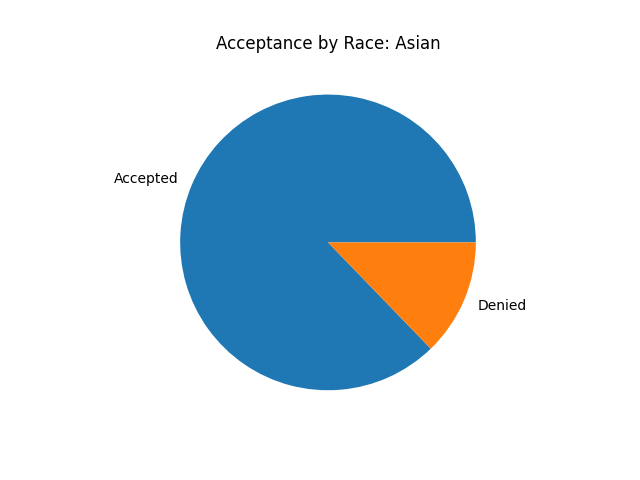
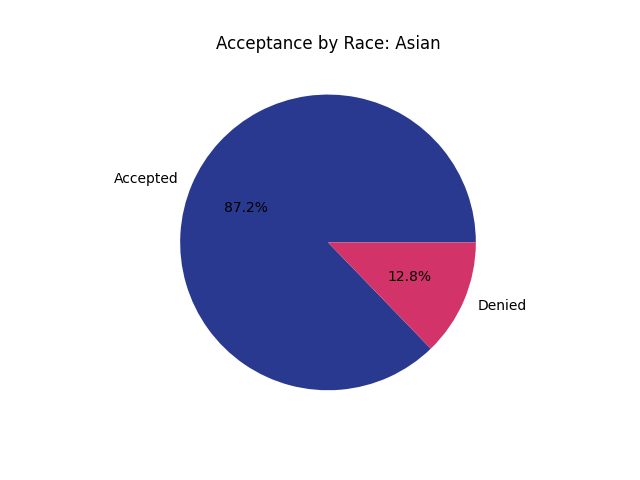
done :)

Changed region(s): [[0.2812, 0.1875, 0.75, 0.8125]]

diff --git a/test_logreg.py b/test_logreg.py
@@ -1,42 +1,64 @@
 from sklearn.linear_model import LogisticRegression
+from sklearn.preprocessing import MinMaxScaler
 import pandas as pd
 import matplotlib.pyplot as plt
+from sklearn.ensemble import RandomForestClassifier
 import numpy as np
 import seaborn as sns
 from sklearn.model_selection import train_test_split
 from sklearn import metrics
-from sklearn.metrics import accuracy_score, precision_score, recall_score
+from sklearn.metrics import accuracy_score, precision_score, recall_score, confusion_matrix
 from imblearn.over_sampling import SMOTE
 from sklearn.metrics import f1_score
+
 
 # import data
 df2 = pd.read_csv('track.csv')
 
 # data cleaning
 dfrel = df2.loc[:, ['applicant_age', 'race', 'ethnicity',
-                    'sex', 'income', 'loan_amount', 'accepted', 'debt_to_income_ratio']]
+                    'sex', 'income', 'loan_amount', 'accepted', 'debt_to_income_ratio', 'combined_loan_to_value_ratio']]
 dfrel.dropna(inplace=True)
 
+# one-hot encoding
 dummies = pd.get_dummies(dfrel['race'])
 dummies1 = pd.get_dummies(dfrel['sex'])
 dummies2 = pd.get_dummies(dfrel['applicant_age'])
 dummies3 = pd.get_dummies(dfrel['ethnicity'])
 dummies4 = pd.get_dummies(dfrel['debt_to_income_ratio'])
-
 dfrel = pd.concat([dfrel, dummies, dummies1, dummies2,
                    dummies3, dummies4], axis=1)
 dfrel.drop(labels=["race", "applicant_age", "sex",
-                   "ethnicity", "debt_to_income_ratio"], axis=1, inplace=True)
+                   "ethnicity", "debt_to_income_ratio", ], axis=1, inplace=True)
 
 
+# encode binary variable
 def encode_binary_variable(df, col, val_pos, val_neg):
     df[col] = df[col].replace({val_pos: 1, val_neg: 0})
 
 
 encode_binary_variable(dfrel, "accepted", 1.0, 0.0)
 
+mms = MinMaxScaler()
+dfrel = pd.DataFrame(mms.fit_transform(dfrel.values), columns=dfrel.columns)
+
+
+# training
 X = dfrel.drop(labels=["accepted"], axis=1)
 y = dfrel["accepted"]
+
+
+# original data, accepted/not accepted bar graph
+ax = df2['accepted'].value_counts().plot(
+    kind='bar', figsize=(10, 6), fontsize=13, color='#087E8B')
+ax.set_title('Mortgage Accepted (0 = not accepted, 1 = accepted)',
+             size=20, pad=30)
+ax.set_ylabel('Number of mortgages accepted ', fontsize=14)
+
+for i in ax.patches:
+    ax.text(i.get_x() + 0.19, i.get_height() + 700,
+            str(round(i.get_height(), 2)), fontsize=15)
+
 
 # create testing dataset
 X_train_full, X_test, y_train_full, y_test = train_test_split(
@@ -45,17 +67,19 @@ X_train_full, X_test, y_train_full, y_test = train_test_split(
 # create training and validation sets
 X_train, X_val, y_train, y_val = train_test_split(
     X_train_full, y_train_full, test_size=0.2, random_state=0)
-print(X_train.shape)
-print(y_train.shape)
+
+
+# logistic regresiion
 logreg = LogisticRegression(random_state=1, max_iter=1000)
 logreg.fit(X_train, y_train)
-
 y_pred = logreg.predict(X_val)
 
 
 dfrel['accepted'].value_counts()
 print(str(dfrel['accepted'].value_counts()[1]/(dfrel['accepted'].value_counts()[1] +
                                                dfrel['accepted'].value_counts()[0])*100)+"% of entries correspond to accepted loans")
+
+
 print("Accuracy: ", accuracy_score(y_val, y_pred))
 # precision and recall accuracy for accepted
 print("Precision for Accepted Applications: ", precision_score(y_val, y_pred))
@@ -66,21 +90,42 @@ print("Precision for Rejected Applications: ",
 print("Recall for Rejected Applications: ",
       recall_score(y_val, y_pred, pos_label=0))
 
-smote = SMOTE(sampling_strategy='minority')
-X_train_res, y_train_res = smote.fit_resample(X_train, y_train)
-y_train_res.value_counts()
-logreg_sm = LogisticRegression(random_state=0, max_iter=1000)
-logreg_sm.fit(X_train_res, y_train_res)
-y_pred_sm = logreg_sm.predict(X_val)
-print("Accuracy: ", accuracy_score(y_val, y_pred_sm))
+
+# utilize SMOTE to fix unbalanced data classes
+sm = SMOTE(random_state=42)
+X_sm, y_sm = sm.fit_resample(X_val, y_val)
+print(f'''Shape of X before SMOTE: {X_val.shape}
+Shape of X after SMOTE: {X_sm.shape}''')
+
+print('\nBalance of positive and negative classes (%):')
+y_sm.value_counts(normalize=True) * 100
+
+X_train, X_test, y_train, y_test = train_test_split(
+    X_sm, y_sm, test_size=0.25, random_state=42
+)
+
+model = RandomForestClassifier(random_state=42)
+model.fit(X_train, y_train)
+preds = model.predict(X_test)
+
+print(
+    f'Accuracy = {accuracy_score(y_test, preds):.2f}\nRecall = {recall_score(y_test, preds):.2f}\n')
+cm = confusion_matrix(y_test, preds)
+plt.figure(figsize=(8, 6))
+plt.title('Confusion Matrix (with SMOTE)', size=16)
+sns.heatmap(cm, annot=True, cmap='Blues')
+plt.savefig('heatmap.png')
+
+
+print("Accuracy SMOTE: ", accuracy_score(y_val, y_pred_sm))
 # precision and recall accuracy for accepted
-print("Precision for Accepted Applications: ",
+print("Precision for Accepted Applications SMOTE: ",
       precision_score(y_val, y_pred_sm))
-print("Recall for Accepted Applications: ", recall_score(y_val, y_pred_sm))
+print("Recall for Accepted Applications SMOTE: ", recall_score(y_val, y_pred_sm))
 # precision and recall accuracy for rejected
-print("Precision for Rejected Applications: ",
+print("Precision for Rejected Applications SMOTE: ",
       precision_score(y_val, y_pred_sm, pos_label=0))
-print("Recall for Rejected Applications: ",
+print("Recall for Rejected Applications SMOTE: ",
       recall_score(y_val, y_pred_sm, pos_label=0))
 
 
@@ -93,4 +138,84 @@ plt.plot(fpr, tpr, label="AUC" + str(auc))
 plt.ylabel('True Positive Rate')
 plt.xlabel('False Positive Rate')
 plt.legend(loc=4)
+plt.show()
+
+
+print("F1 Score for the Baseline Model (Accepted): ", f1_score(y_val, y_pred))
+print("F1 Score for the SMOTE Model (Accepted): ", f1_score(y_val, y_pred_sm))
+print("F1 Score for the Baseline Model (Rejected): ",
+      f1_score(y_val, y_pred, pos_label=0))
+print("F1 Score for the SMOTE Model (Rejected): ",
+      f1_score(y_val, y_pred_sm, pos_label=0))
+
+
+dftest = dfrel.copy()
+
+dftest.loc[:, 'Native Hawaiian or Other Pacific Islander'] = 0.0
+dftest.loc[:, 'White'] = 1.0
+dftest.loc[:, 'Asian'] = 0.0
+dftest.loc[:, 'Black or African American'] = 0.0
+dftest.loc[:, 'American Indian or Alaska Native'] = 0.0
+dftest.loc[:, '2 or more minority races'] = 0.0
+dftest.loc[:, 'Free Form Text Only'] = 0.0
+
+
+# compare predicted approval rates if race is changed to white
+X = dfrel.drop(labels=["accepted"], axis=1)
+X2 = dftest.drop(labels=["accepted"], axis=1)
+white_preds = model.predict(X2)
+preds2 = model.predict(X)
+
+dfrel["preds"] = preds2
+dfrel["white_preds"] = white_preds
+dfnonwhite = dfrel[dfrel.White == 0.0]
+print(dfnonwhite.head(10))
+black_orig = dfnonwhite[dfnonwhite["Black or African American"] ==
+                        1.0]["preds"].mean()
+black_skew = dfnonwhite[dfnonwhite["Black or African American"] ==
+                        1.0]["white_preds"].mean()
+asian_orig = dfnonwhite[dfnonwhite["Asian"] == 1.0]["preds"].mean()
+asian_skew = dfnonwhite[dfnonwhite["Asian"] ==
+                        1.0]["white_preds"].mean()
+na_orig = dfnonwhite[dfnonwhite["American Indian or Alaska Native"] ==
+                     1.0]["preds"].mean()
+na_skew = dfnonwhite[dfnonwhite["American Indian or Alaska Native"] ==
+                     1.0]["white_preds"].mean()
+hawaii_orig = dfnonwhite[dfnonwhite["Native Hawaiian or Other Pacific Islander"] ==
+                         1.0]["preds"].mean()
+hawaii_skew = dfnonwhite[dfnonwhite["Native Hawaiian or Other Pacific Islander"] ==
+                         1.0]["white_preds"].mean()
+
+# logistic regression graph
+#sns.regplot(x=X_test, y=preds, data=dfrel, logistic=True, ci=None)
+
+race_labels = ['Black', 'Asian',
+               'Native American', 'Hawaiian/Pacific Islander']
+original_means = [black_orig, asian_orig, na_orig, hawaii_orig]
+skewed_means = [black_skew, asian_skew, na_skew, hawaii_skew]
+
+# label locations
+x_labels = np.arange(len(race_labels))
+# width of bars
+width_bar = 0.35
+
+fig, ax = plt.subplots()
+rects1 = ax.bar(x_labels - width_bar/2, original_means,
+                width_bar, label='Original')
+rects2 = ax.bar(x_labels + width_bar/2, skewed_means,
+                width_bar, label='Skewed')
+
+# Add some text for labels, title and custom x-axis tick labels, etc.
+ax.set_ylabel('Average Approval Rate')
+ax.set_xlabel('Race')
+ax.set_title('Investigating Racial Impact on Mortgage Approval')
+ax.set_xticks(x_labels, race_labels)
+ax.legend()
+
+ax.bar_label(rects1, padding=3)
+ax.bar_label(rects2, padding=3)
+
+fig.tight_layout()
+
+plt.savefig("approvalratebar.png")
 plt.show()

diff --git a/datathon.py b/datathon.py
@@ -1,4 +1,3 @@
-# hey bitch
 from pandas.core.frame import DataFrame
 from sklearn.preprocessing import OrdinalEncoder
 import pandas as pd
@@ -63,7 +62,7 @@ free_count = np.count_nonzero(race_np_arr == "Free Form Text Only")
 arr = np.array([white_count, black_count, asian_count,
                 joint_count, NA_count, two_count, island_count, free_count])
 plt.pie(arr)
-plt.show()
+# plt.show()
 
 print("White Count", white_count)
 print("Black Count: ", black_count)
@@ -104,39 +103,68 @@ def count_race_accept_race(race, accept_arr, race_arr):
 
 
 accept_labels = ['Accepted', 'Denied']
+colors = ['#2a3990', '#d23369']
 
 white_pie = count_race_accept_race("White", accepted_arr, race_np_arr)
-
-plt.pie(white_pie, labels=accept_labels)
+white_denial_percent = (white_pie[1] / (white_pie[0] + white_pie[1]))*100
+print("WHITE DENIAL PERCENT: ", white_denial_percent)
+plt.pie(white_pie, labels=accept_labels, autopct='%.1f%%', colors=colors)
 plt.title("Acceptance by Race: White")
 plt.savefig('white_pie.png')
 plt.show()
 
 black_pie = count_race_accept_race(
     "Black or African American", accepted_arr, race_np_arr)
-plt.pie(black_pie, labels=accept_labels)
+black_denial_percent = (black_pie[1] / (black_pie[0] + black_pie[1]))*100
+print("BLACK DENIAL PERCENT: ", black_denial_percent)
+plt.pie(black_pie, labels=accept_labels, autopct='%.1f%%', colors=colors)
 plt.title("Acceptance by Race: Black or African American")
 plt.savefig('black_pie.png')
 plt.show()
 
 asian_pie = count_race_accept_race("Asian", accepted_arr, race_np_arr)
-plt.pie(asian_pie, labels=accept_labels)
+asian_denial_percent = (asian_pie[1] / (asian_pie[0] + asian_pie[1]))*100
+print("ASIAN DENIAL PERCENT: ", asian_denial_percent)
+plt.pie(asian_pie, labels=accept_labels, autopct='%.1f%%', colors=colors)
 plt.title("Acceptance by Race: Asian")
 plt.savefig('asian_pie.png')
 plt.show()
 
 na_pie = count_race_accept_race(
     "American Indian or Alaska Native", accepted_arr, race_np_arr)
-plt.pie(na_pie, labels=accept_labels)
+na_denial_percent = (na_pie[1] / (na_pie[0] + na_pie[1]))*100
+print("NA DENIAL PERCENT: ", na_denial_percent)
+plt.pie(na_pie, labels=accept_labels, autopct='%.1f%%', colors=colors)
 plt.title("Acceptance by Race: American Indian or Alaska Native")
 plt.savefig('na_pie.png')
 plt.show()
 
 two_pie = count_race_accept_race(
     "2 or more minority races", accepted_arr, race_np_arr)
-plt.pie(two_pie, labels=accept_labels)
+two_denial_percent = (two_pie[1] / (two_pie[0] + two_pie[1]))*100
+print("NA DENIAL PERCENT: ", two_denial_percent)
+plt.pie(two_pie, labels=accept_labels, autopct='%.1f%%', colors=colors)
 plt.title("Acceptance by Race: 2 or more minority races")
 plt.savefig('two_pie.png')
+plt.show()
+
+
+# BAR CHART
+# create dataset
+bar_height = [white_denial_percent, black_denial_percent,
+              asian_denial_percent, na_denial_percent, two_denial_percent]
+bars = ['W', 'B', 'A',
+        'NA', '2']
+x_pos = np.arange(len(bars))
+
+# create bars
+plt.bar(x_pos, bar_height, color=(0.2, 0.4, 0.6, 0.6))
+
+# create names on the x-axis
+plt.xticks(x_pos, bar_height)
+
+# show graph
+plt.savefig('race_bar.png')
 plt.show()
 print("-----------")
 
